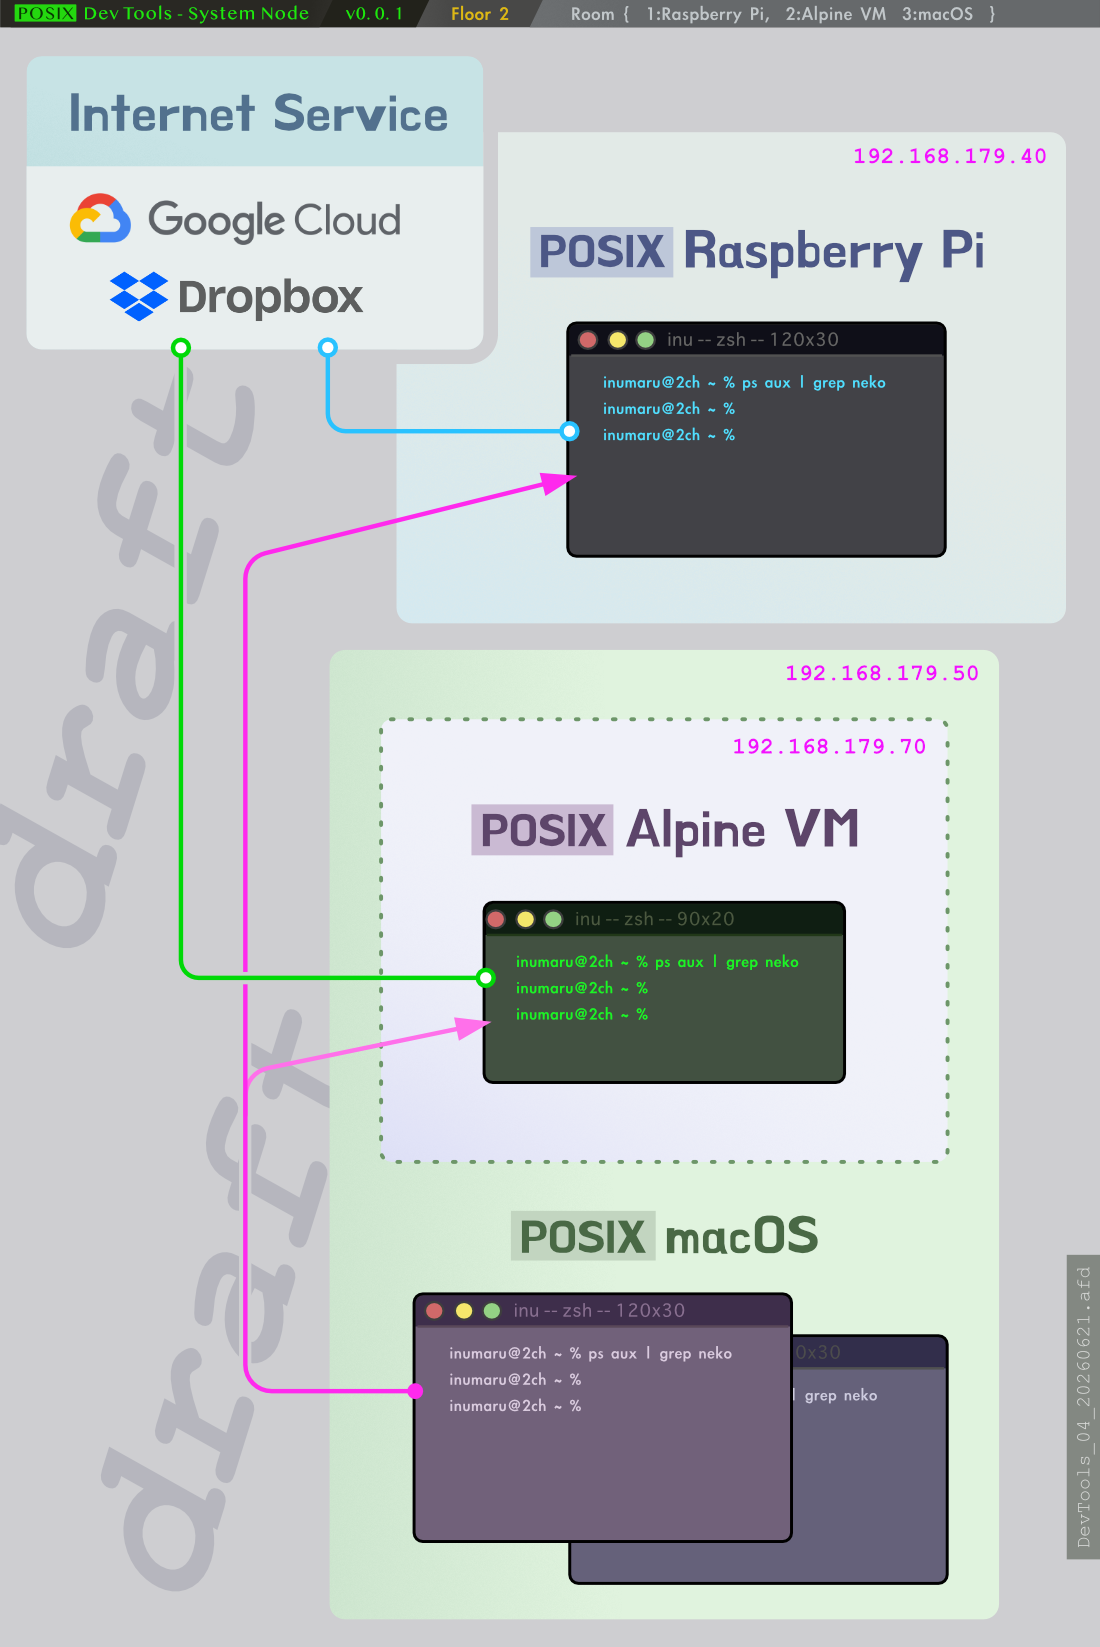
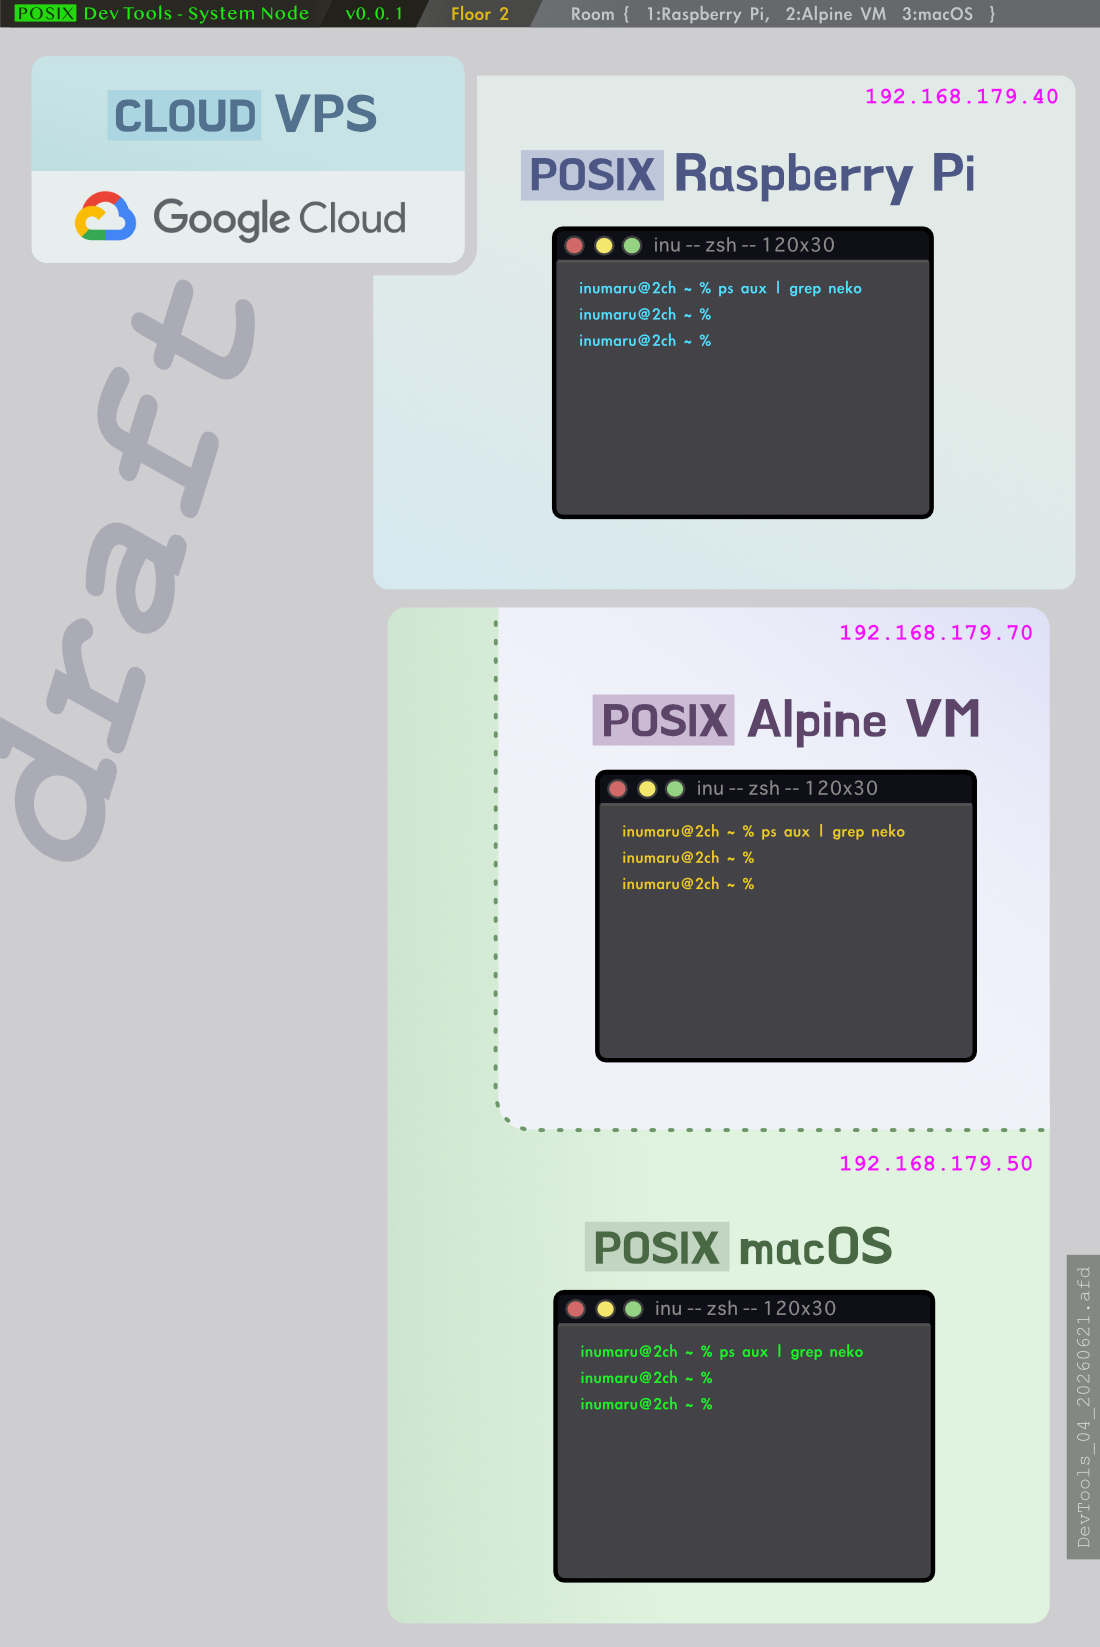
docs: （floor-2006）README.mdを更新

diff --git a/floor-2026/f001/README.md b/floor-2026/f001/README.md
@@ -24,7 +24,7 @@
 | Day 27 | [d027](./d027/) | m002 | r002 |0x15| Kotlin API 22, WebView, Beep       |
 | Day 28 | [d028](./d028/) | m002 | r003 |0x16| macOS 26, SwiftUI, Beep            |
 | Day 29 | [d029](./d029/) | m003 | r001 |0x17| ws: Tx cmd, Rx PNG, Tx edit, Rx PNG|
-| Day 32 | [d032](./d029/) | m003 | r001 |0x18| NATS protocol (compare with ws:)|
+| n/a | [d032](./d029/) | m003 | r001 |0x18| similar NATS protocol, JS+Kt |
 | ---- | . | . | . |.| PNG edit, Kotlin API22  |
 | ---- | . | . | . |.| PNG edit, macOS 26 swift|
 | ---- | . | . | . |.| so simple - echo server |